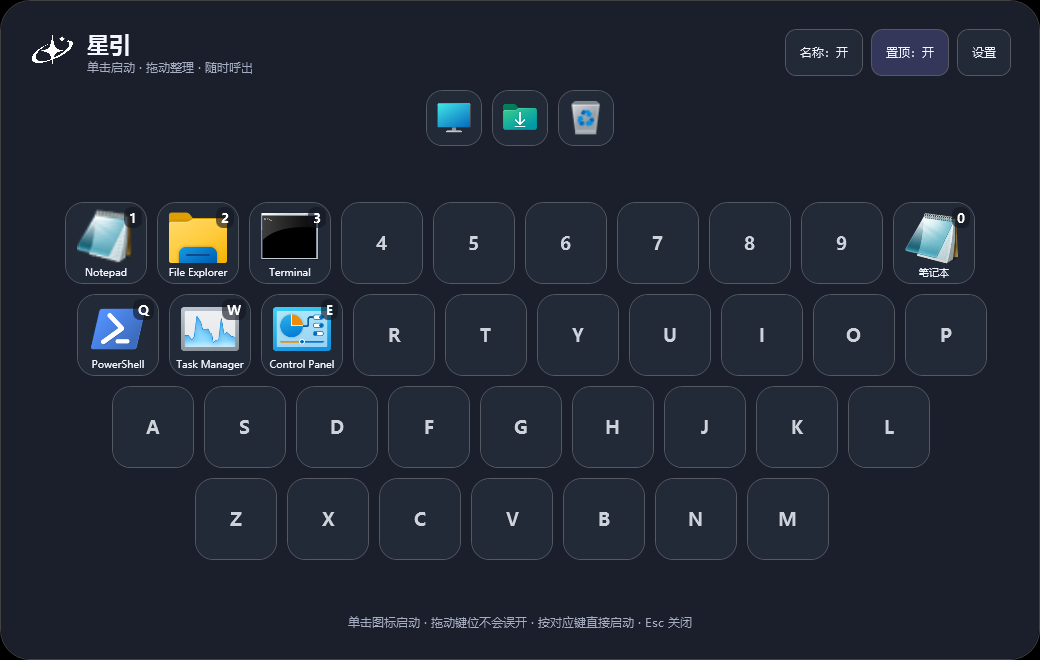
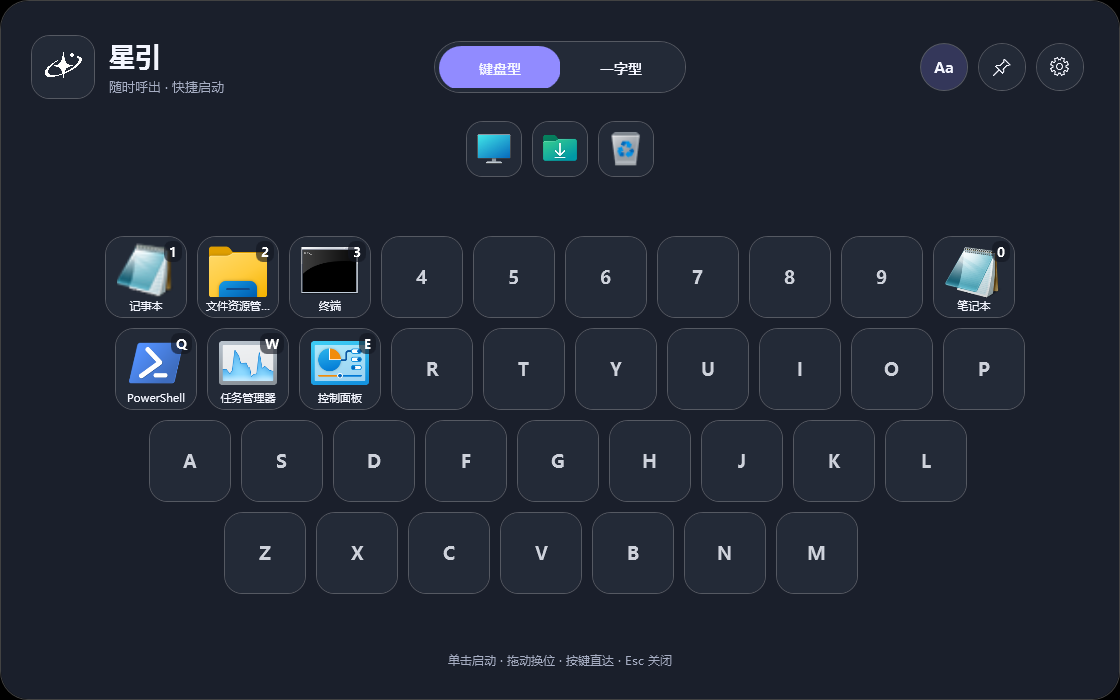
Redesign the main launcher interface

diff --git a/MainWindow.xaml b/MainWindow.xaml
@@ -1,7 +1,7 @@
 <Window x:Class="StarLead.MainWindow"
         xmlns="http://schemas.microsoft.com/winfx/2006/xaml/presentation"
         xmlns:x="http://schemas.microsoft.com/winfx/2006/xaml"
-        Title="{DynamicResource AppName}" Width="1040" Height="660" WindowStyle="None" ResizeMode="NoResize"
+        Title="{DynamicResource AppName}" Width="1120" Height="700" WindowStyle="None" ResizeMode="NoResize"
         AllowsTransparency="True" Background="Transparent" ShowInTaskbar="False" Topmost="True"
         UseLayoutRounding="True" SnapsToDevicePixels="True"
         PreviewKeyDown="Window_PreviewKeyDown" PreviewMouseLeftButtonDown="Window_PreviewMouseLeftButtonDown"
@@ -20,7 +20,7 @@
                                 <Image Source="{Binding Icon}" Stretch="Uniform" HorizontalAlignment="Center" VerticalAlignment="Center" SnapsToDevicePixels="True">
                                     <Image.Style><Style TargetType="Image"><Setter Property="Width" Value="68"/><Setter Property="Height" Value="68"/><Setter Property="Margin" Value="0"/><Style.Triggers><DataTrigger Binding="{Binding ShowLabel}" Value="True"><Setter Property="Margin" Value="0,0,0,12"/><Setter Property="Width" Value="58"/><Setter Property="Height" Value="58"/></DataTrigger></Style.Triggers></Style></Image.Style>
                                 </Image>
-                                <TextBlock Text="{Binding DisplayName}" Foreground="{DynamicResource TextBrush}" FontSize="10" TextTrimming="CharacterEllipsis" TextAlignment="Center" HorizontalAlignment="Stretch" VerticalAlignment="Bottom">
+                                <TextBlock Text="{Binding DisplayName}" Foreground="{DynamicResource TextBrush}" FontSize="11" FontWeight="Medium" TextTrimming="CharacterEllipsis" TextAlignment="Center" HorizontalAlignment="Stretch" VerticalAlignment="Bottom">
                                     <TextBlock.Style><Style TargetType="TextBlock"><Setter Property="Visibility" Value="Visible"/><Style.Triggers><DataTrigger Binding="{Binding ShowLabel}" Value="False"><Setter Property="Visibility" Value="Collapsed"/></DataTrigger></Style.Triggers></Style></TextBlock.Style>
                                 </TextBlock>
                                 <TextBlock x:Name="EmptyKey" Text="{Binding Key}" FontSize="18" FontWeight="Bold" Foreground="{DynamicResource TextBrush}" HorizontalAlignment="Center" VerticalAlignment="Center" Opacity="0.82"/>
@@ -34,9 +34,12 @@
                             <DataTrigger Binding="{Binding IsEmpty}" Value="False"><Setter TargetName="EmptyKey" Property="Visibility" Value="Collapsed"/></DataTrigger>
                             <Trigger Property="IsMouseOver" Value="True">
                                 <Setter TargetName="Shell" Property="Background" Value="{DynamicResource AccentSoftBrush}"/><Setter TargetName="Shell" Property="BorderBrush" Value="{DynamicResource AccentBrush}"/>
-                                <Trigger.EnterActions><BeginStoryboard><Storyboard><DoubleAnimation Storyboard.TargetProperty="RenderTransform.ScaleX" To="1.11" Duration="0:0:0.14"/><DoubleAnimation Storyboard.TargetProperty="RenderTransform.ScaleY" To="1.11" Duration="0:0:0.14"/></Storyboard></BeginStoryboard></Trigger.EnterActions>
-                                <Trigger.ExitActions><BeginStoryboard><Storyboard><DoubleAnimation Storyboard.TargetProperty="RenderTransform.ScaleX" To="1" Duration="0:0:0.18"/><DoubleAnimation Storyboard.TargetProperty="RenderTransform.ScaleY" To="1" Duration="0:0:0.18"/></Storyboard></BeginStoryboard></Trigger.ExitActions>
+                                <Setter TargetName="Shell" Property="Effect"><Setter.Value><DropShadowEffect Color="#8B5CF6" BlurRadius="18" ShadowDepth="0" Opacity="0.46"/></Setter.Value></Setter>
+                                <Trigger.EnterActions><BeginStoryboard><Storyboard><DoubleAnimation Storyboard.TargetProperty="RenderTransform.ScaleX" To="1.05" Duration="0:0:0.16"><DoubleAnimation.EasingFunction><CubicEase EasingMode="EaseOut"/></DoubleAnimation.EasingFunction></DoubleAnimation><DoubleAnimation Storyboard.TargetProperty="RenderTransform.ScaleY" To="1.05" Duration="0:0:0.16"><DoubleAnimation.EasingFunction><CubicEase EasingMode="EaseOut"/></DoubleAnimation.EasingFunction></DoubleAnimation></Storyboard></BeginStoryboard></Trigger.EnterActions>
+                                <Trigger.ExitActions><BeginStoryboard><Storyboard><DoubleAnimation Storyboard.TargetProperty="RenderTransform.ScaleX" To="1" Duration="0:0:0.2"><DoubleAnimation.EasingFunction><CubicEase EasingMode="EaseOut"/></DoubleAnimation.EasingFunction></DoubleAnimation><DoubleAnimation Storyboard.TargetProperty="RenderTransform.ScaleY" To="1" Duration="0:0:0.2"><DoubleAnimation.EasingFunction><CubicEase EasingMode="EaseOut"/></DoubleAnimation.EasingFunction></DoubleAnimation></Storyboard></BeginStoryboard></Trigger.ExitActions>
                             </Trigger>
+                            <Trigger Property="IsKeyboardFocused" Value="True"><Setter TargetName="Shell" Property="BorderBrush" Value="{DynamicResource AccentBrush}"/><Setter TargetName="Shell" Property="BorderThickness" Value="2"/></Trigger>
+                            <Trigger Property="IsPressed" Value="True"><Setter TargetName="Shell" Property="Opacity" Value="0.8"/></Trigger>
                         </ControlTemplate.Triggers>
                     </ControlTemplate>
                 </Setter.Value>
@@ -46,7 +49,7 @@
             <EventSetter Event="DragOver" Handler="Slot_DragOver"/>
             <EventSetter Event="PreviewMouseRightButtonUp" Handler="Slot_RightClick"/>
         </Style>
-        <DataTemplate x:Key="KeyTemplate"><Button Style="{StaticResource KeyButtonStyle}" DataContext="{Binding}"/></DataTemplate>
+        <DataTemplate x:Key="KeyTemplate"><Button Style="{StaticResource KeyButtonStyle}" DataContext="{Binding}" AutomationProperties.Name="{Binding DisplayName}"/></DataTemplate>
         <Style x:Key="FixedEntryButtonStyle" TargetType="Button">
             <Setter Property="Width" Value="56"/><Setter Property="Height" Value="56"/><Setter Property="Margin" Value="5,0"/>
             <Setter Property="Background" Value="{DynamicResource CardBrush}"/><Setter Property="BorderBrush" Value="{DynamicResource BorderBrush}"/>
@@ -59,12 +62,21 @@
                 </ControlTemplate.Triggers>
             </ControlTemplate></Setter.Value></Setter>
         </Style>
+        <Style x:Key="HeaderIconButtonStyle" TargetType="Button">
+            <Setter Property="Width" Value="48"/><Setter Property="Height" Value="48"/><Setter Property="Padding" Value="0"/><Setter Property="Margin" Value="5,0"/>
+            <Setter Property="Background" Value="{DynamicResource CardBrush}"/><Setter Property="BorderBrush" Value="{DynamicResource BorderBrush}"/><Setter Property="BorderThickness" Value="1"/>
+            <Setter Property="Template"><Setter.Value><ControlTemplate TargetType="Button"><Border x:Name="Circle" CornerRadius="24" Background="{TemplateBinding Background}" BorderBrush="{TemplateBinding BorderBrush}" BorderThickness="{TemplateBinding BorderThickness}"><ContentPresenter HorizontalAlignment="Center" VerticalAlignment="Center"/></Border><ControlTemplate.Triggers><Trigger Property="IsMouseOver" Value="True"><Setter TargetName="Circle" Property="Background" Value="{DynamicResource AccentSoftBrush}"/><Setter TargetName="Circle" Property="BorderBrush" Value="{DynamicResource AccentBrush}"/></Trigger><Trigger Property="IsPressed" Value="True"><Setter TargetName="Circle" Property="Opacity" Value="0.7"/></Trigger><Trigger Property="IsKeyboardFocused" Value="True"><Setter TargetName="Circle" Property="BorderBrush" Value="{DynamicResource AccentBrush}"/><Setter TargetName="Circle" Property="BorderThickness" Value="2"/></Trigger></ControlTemplate.Triggers></ControlTemplate></Setter.Value></Setter>
+        </Style>
+        <Style x:Key="ModePillButtonStyle" TargetType="Button">
+            <Setter Property="Width" Value="122"/><Setter Property="Height" Value="44"/><Setter Property="Padding" Value="0"/><Setter Property="BorderThickness" Value="0"/><Setter Property="Background" Value="Transparent"/><Setter Property="Foreground" Value="{DynamicResource TextBrush}"/><Setter Property="FontSize" Value="14"/><Setter Property="FontWeight" Value="SemiBold"/>
+            <Setter Property="Template"><Setter.Value><ControlTemplate TargetType="Button"><Border x:Name="ModeShell" CornerRadius="22" Background="{TemplateBinding Background}"><ContentPresenter HorizontalAlignment="Center" VerticalAlignment="Center"/></Border><ControlTemplate.Triggers><Trigger Property="IsMouseOver" Value="True"><Setter TargetName="ModeShell" Property="Background" Value="{DynamicResource AccentSoftBrush}"/></Trigger><Trigger Property="IsPressed" Value="True"><Setter TargetName="ModeShell" Property="Opacity" Value="0.72"/></Trigger></ControlTemplate.Triggers></ControlTemplate></Setter.Value></Setter>
+        </Style>
         <Style x:Key="LinearIconStyle" TargetType="Button">
             <Setter Property="Width" Value="80"/><Setter Property="Height" Value="80"/><Setter Property="Margin" Value="{Binding LinearMargin}"/>
             <Setter Property="Background" Value="Transparent"/><Setter Property="BorderThickness" Value="0"/><Setter Property="Padding" Value="7"/>
             <Setter Property="RenderTransformOrigin" Value="0.5,0.5"/><Setter Property="RenderTransform"><Setter.Value><ScaleTransform/></Setter.Value></Setter>
             <Setter Property="Template"><Setter.Value><ControlTemplate TargetType="Button">
-                <Grid x:Name="HoverHost" RenderTransformOrigin="0.5,0.5"><Grid.RenderTransform><ScaleTransform x:Name="HoverScale" ScaleX="1" ScaleY="1"/></Grid.RenderTransform><Ellipse x:Name="Glow" Fill="{DynamicResource AccentSoftBrush}" Opacity="0"/><Image Source="{Binding Icon}" Stretch="Uniform" Margin="5,2,5,18" SnapsToDevicePixels="True"/><Border Background="#B0111520" CornerRadius="8" Padding="5,1" HorizontalAlignment="Right" VerticalAlignment="Top" Margin="0,0,1,0"><TextBlock Text="{Binding Key}" Foreground="White" FontSize="11" FontWeight="Bold"/></Border><TextBlock x:Name="LinearName" Text="{Binding DisplayName}" Foreground="{DynamicResource TextBrush}" FontSize="10" FontWeight="SemiBold" TextTrimming="CharacterEllipsis" TextAlignment="Center" HorizontalAlignment="Stretch" VerticalAlignment="Bottom" MaxWidth="72"/></Grid>
+                <Grid x:Name="HoverHost" RenderTransformOrigin="0.5,0.5"><Grid.RenderTransform><ScaleTransform x:Name="HoverScale" ScaleX="1" ScaleY="1"/></Grid.RenderTransform><Ellipse x:Name="Glow" Fill="{DynamicResource AccentSoftBrush}" Opacity="0"/><Image Source="{Binding Icon}" Stretch="Uniform" Margin="5,2,5,18" SnapsToDevicePixels="True"/><Border Background="#B0111520" CornerRadius="8" Padding="5,1" HorizontalAlignment="Right" VerticalAlignment="Top" Margin="0,0,1,0"><TextBlock Text="{Binding Key}" Foreground="White" FontSize="11" FontWeight="Bold"/></Border><TextBlock x:Name="LinearName" Text="{Binding DisplayName}" Foreground="{DynamicResource TextBrush}" FontSize="11" FontWeight="SemiBold" TextTrimming="CharacterEllipsis" TextAlignment="Center" HorizontalAlignment="Stretch" VerticalAlignment="Bottom" MaxWidth="72"/></Grid>
                 <ControlTemplate.Triggers><Trigger Property="IsMouseOver" Value="True">
                     <Setter TargetName="Glow" Property="Opacity" Value="1"/>
                     <Trigger.EnterActions><BeginStoryboard><Storyboard><DoubleAnimation Storyboard.TargetName="HoverScale" Storyboard.TargetProperty="ScaleX" To="1.16" Duration="0:0:0.14"><DoubleAnimation.EasingFunction><CubicEase EasingMode="EaseOut"/></DoubleAnimation.EasingFunction></DoubleAnimation><DoubleAnimation Storyboard.TargetName="HoverScale" Storyboard.TargetProperty="ScaleY" To="1.16" Duration="0:0:0.14"><DoubleAnimation.EasingFunction><CubicEase EasingMode="EaseOut"/></DoubleAnimation.EasingFunction></DoubleAnimation></Storyboard></BeginStoryboard></Trigger.EnterActions>
@@ -85,23 +97,32 @@
     </Window.Resources>
 
     <Grid>
-    <Border x:Name="PanelShell" Background="{DynamicResource PanelBrush}" CornerRadius="30" BorderBrush="{DynamicResource BorderBrush}" BorderThickness="1" Padding="28">
-        <Border.Effect><DropShadowEffect BlurRadius="35" ShadowDepth="10" Opacity="0.22"/></Border.Effect>
+    <Border x:Name="PanelShell" Background="{DynamicResource PanelBrush}" CornerRadius="28" BorderBrush="{DynamicResource BorderBrush}" BorderThickness="1" Padding="30">
+        <Border.Effect><DropShadowEffect BlurRadius="28" ShadowDepth="6" Opacity="0.26"/></Border.Effect>
         <Grid>
             <Grid.RowDefinitions><RowDefinition Height="Auto"/><RowDefinition Height="Auto"/><RowDefinition Height="*"/><RowDefinition Height="Auto"/></Grid.RowDefinitions>
-            <Grid Background="Transparent">
-                <StackPanel Orientation="Horizontal">
-                    <Image Source="{DynamicResource LogoAsset}" Width="46" Height="46" Stretch="Uniform" SnapsToDevicePixels="True"/>
-                    <StackPanel Margin="12,0,0,0"><TextBlock Text="{DynamicResource AppName}" FontSize="22" FontWeight="Bold"/><TextBlock Text="{DynamicResource MainSubtitle}" Foreground="{DynamicResource MutedBrush}" FontSize="12"/></StackPanel>
+            <Grid Background="Transparent" Height="72">
+                <Grid.ColumnDefinitions><ColumnDefinition Width="*"/><ColumnDefinition Width="Auto"/><ColumnDefinition Width="*"/></Grid.ColumnDefinitions>
+                <StackPanel Orientation="Horizontal" VerticalAlignment="Center">
+                    <Border Width="64" Height="64" CornerRadius="18" Background="{DynamicResource CardBrush}" BorderBrush="{DynamicResource BorderBrush}" BorderThickness="1" Padding="10">
+                        <Image Source="{DynamicResource LogoAsset}" Stretch="Uniform" SnapsToDevicePixels="True"/>
+                    </Border>
+                    <StackPanel Margin="14,0,0,0" VerticalAlignment="Center"><TextBlock Text="{DynamicResource AppName}" FontSize="26" FontWeight="Bold"/><TextBlock Text="{DynamicResource MainSubtitle}" Foreground="{DynamicResource MutedBrush}" FontSize="13" Margin="0,4,0,0"/></StackPanel>
                 </StackPanel>
-                <StackPanel Orientation="Horizontal" HorizontalAlignment="Right">
-                    <Button x:Name="NameToggleButton" Click="NameToggle_Click" Padding="14,8" Margin="0,0,8,0" Background="{DynamicResource CardBrush}" Foreground="{DynamicResource TextBrush}" BorderBrush="{DynamicResource BorderBrush}" Cursor="Hand"/>
-                    <Button x:Name="PinButton" Click="Pin_Click" Padding="14,8" Margin="0,0,8,0" Background="{DynamicResource CardBrush}" Foreground="{DynamicResource TextBrush}" BorderBrush="{DynamicResource BorderBrush}" Cursor="Hand"/>
-                    <Button Content="{DynamicResource Settings}" Click="Settings_Click" Padding="14,8" Background="{DynamicResource CardBrush}" Foreground="{DynamicResource TextBrush}" BorderBrush="{DynamicResource BorderBrush}" Cursor="Hand"/>
+                <Border Grid.Column="1" Width="252" Height="52" CornerRadius="26" Background="{DynamicResource CardBrush}" BorderBrush="{DynamicResource BorderBrush}" BorderThickness="1" Padding="4" VerticalAlignment="Center">
+                    <Grid><Grid.ColumnDefinitions><ColumnDefinition/><ColumnDefinition/></Grid.ColumnDefinitions>
+                        <Button x:Name="KeyboardModeButton" Grid.Column="0" Style="{StaticResource ModePillButtonStyle}" Content="{DynamicResource KeyboardPanel}" Click="KeyboardMode_Click" Background="{DynamicResource AccentBrush}" Foreground="White"/>
+                        <Button x:Name="LinearModeButton" Grid.Column="1" Style="{StaticResource ModePillButtonStyle}" Content="{DynamicResource LinearPanel}" Click="LinearMode_Click"/>
+                    </Grid>
+                </Border>
+                <StackPanel Grid.Column="2" Orientation="Horizontal" HorizontalAlignment="Right" VerticalAlignment="Center">
+                    <Button x:Name="NameToggleButton" Style="{StaticResource HeaderIconButtonStyle}" Click="NameToggle_Click"><TextBlock Text="Aa" FontSize="15" FontWeight="Bold"/></Button>
+                    <Button x:Name="PinButton" Style="{StaticResource HeaderIconButtonStyle}" Click="Pin_Click"><TextBlock FontFamily="Segoe MDL2 Assets" Text="&#xE840;" FontSize="18"/></Button>
+                    <Button Style="{StaticResource HeaderIconButtonStyle}" Click="Settings_Click" ToolTip="{DynamicResource Settings}"><TextBlock FontFamily="Segoe MDL2 Assets" Text="&#xE713;" FontSize="19"/></Button>
                 </StackPanel>
             </Grid>
 
-            <StackPanel x:Name="SystemEntriesPanel" Grid.Row="1" Orientation="Horizontal" HorizontalAlignment="Center" Margin="0,14,0,2">
+            <StackPanel x:Name="SystemEntriesPanel" Grid.Row="1" Orientation="Horizontal" HorizontalAlignment="Center" Margin="0,18,0,8">
                 <Button x:Name="MyComputerButton" Style="{StaticResource FixedEntryButtonStyle}" Click="MyComputer_Click"><Image x:Name="MyComputerIcon" Width="38" Height="38" Stretch="Uniform" SnapsToDevicePixels="True"/></Button>
                 <Button x:Name="DownloadsButton" Style="{StaticResource FixedEntryButtonStyle}" Click="Downloads_Click"><Image x:Name="DownloadsIcon" Width="38" Height="38" Stretch="Uniform" SnapsToDevicePixels="True"/></Button>
                 <Button x:Name="RecycleBinButton" Style="{StaticResource FixedEntryButtonStyle}" Click="RecycleBin_Click" PreviewMouseRightButtonUp="RecycleBin_RightClick"><Image x:Name="RecycleBinIcon" Width="38" Height="38" Stretch="Uniform" SnapsToDevicePixels="True"/></Button>
@@ -110,12 +131,12 @@
             <Grid Grid.Row="2" VerticalAlignment="Center">
                 <StackPanel>
                     <ItemsControl x:Name="Row1" ItemTemplate="{StaticResource KeyTemplate}"><ItemsControl.ItemsPanel><ItemsPanelTemplate><StackPanel Orientation="Horizontal" HorizontalAlignment="Center"/></ItemsPanelTemplate></ItemsControl.ItemsPanel></ItemsControl>
-                    <ItemsControl x:Name="Row2" ItemTemplate="{StaticResource KeyTemplate}" Margin="24,0,0,0"><ItemsControl.ItemsPanel><ItemsPanelTemplate><StackPanel Orientation="Horizontal" HorizontalAlignment="Center"/></ItemsPanelTemplate></ItemsControl.ItemsPanel></ItemsControl>
-                    <ItemsControl x:Name="Row3" ItemTemplate="{StaticResource KeyTemplate}" Margin="2,0,0,0"><ItemsControl.ItemsPanel><ItemsPanelTemplate><StackPanel Orientation="Horizontal" HorizontalAlignment="Center"/></ItemsPanelTemplate></ItemsControl.ItemsPanel></ItemsControl>
-                    <ItemsControl x:Name="Row4" ItemTemplate="{StaticResource KeyTemplate}" Margin="-15,0,0,0"><ItemsControl.ItemsPanel><ItemsPanelTemplate><StackPanel Orientation="Horizontal" HorizontalAlignment="Center"/></ItemsPanelTemplate></ItemsControl.ItemsPanel></ItemsControl>
+                    <ItemsControl x:Name="Row2" ItemTemplate="{StaticResource KeyTemplate}" Margin="20,0,0,0"><ItemsControl.ItemsPanel><ItemsPanelTemplate><StackPanel Orientation="Horizontal" HorizontalAlignment="Center"/></ItemsPanelTemplate></ItemsControl.ItemsPanel></ItemsControl>
+                    <ItemsControl x:Name="Row3" ItemTemplate="{StaticResource KeyTemplate}" Margin="-4,0,0,0"><ItemsControl.ItemsPanel><ItemsPanelTemplate><StackPanel Orientation="Horizontal" HorizontalAlignment="Center"/></ItemsPanelTemplate></ItemsControl.ItemsPanel></ItemsControl>
+                    <ItemsControl x:Name="Row4" ItemTemplate="{StaticResource KeyTemplate}" Margin="-38,0,0,0"><ItemsControl.ItemsPanel><ItemsPanelTemplate><StackPanel Orientation="Horizontal" HorizontalAlignment="Center"/></ItemsPanelTemplate></ItemsControl.ItemsPanel></ItemsControl>
                 </StackPanel>
             </Grid>
-            <TextBlock Grid.Row="3" Text="{DynamicResource MainHint}" HorizontalAlignment="Center" Foreground="{DynamicResource MutedBrush}" FontSize="12"/>
+            <TextBlock Grid.Row="3" Text="{DynamicResource MainHint}" HorizontalAlignment="Center" Foreground="{DynamicResource MutedBrush}" FontSize="12" Margin="0,6,0,0"/>
         </Grid>
     </Border>
     <Border x:Name="LinearShell" Visibility="Collapsed" Background="{DynamicResource PanelBrush}" CornerRadius="24" BorderThickness="0" Padding="10"

diff --git a/App.xaml b/App.xaml
@@ -28,6 +28,7 @@
             <Style.Triggers><Trigger Property="IsHighlighted" Value="True"><Setter Property="Background" Value="#FFE4E2FF"/><Setter Property="Foreground" Value="#FF171A24"/></Trigger></Style.Triggers>
         </Style>
         <Style TargetType="ContextMenu"><Setter Property="FontFamily" Value="{StaticResource AppFontFamily}"/><Setter Property="FontSize" Value="13"/><Setter Property="Background" Value="#FFFFFFFF"/><Setter Property="BorderBrush" Value="#FF8B91A2"/><Setter Property="Foreground" Value="#FF111827"/></Style>
+        <Style TargetType="ToolTip"><Setter Property="FontFamily" Value="{StaticResource AppFontFamily}"/><Setter Property="FontSize" Value="12"/><Setter Property="Foreground" Value="#FF111827"/><Setter Property="Background" Value="#FFFFFFFF"/><Setter Property="BorderBrush" Value="#FF8B91A2"/><Setter Property="Padding" Value="9,6"/></Style>
         <Style TargetType="MenuItem">
             <Setter Property="FontFamily" Value="{StaticResource AppFontFamily}"/><Setter Property="FontSize" Value="13"/><Setter Property="Foreground" Value="#FF111827"/><Setter Property="Background" Value="#FFFFFFFF"/><Setter Property="Padding" Value="12,8"/>
             <Style.Triggers><Trigger Property="IsHighlighted" Value="True"><Setter Property="Background" Value="#FFE4E2FF"/><Setter Property="Foreground" Value="#FF171A24"/></Trigger></Style.Triggers>

diff --git a/MainWindow.xaml.cs b/MainWindow.xaml.cs
@@ -83,7 +83,7 @@ public partial class MainWindow : Window
         PanelShell.Visibility = linear ? Visibility.Collapsed : Visibility.Visible;
         LinearShell.Visibility = linear ? Visibility.Visible : Visibility.Collapsed;
         if (linear) { Height = 104; Width = CalculateLinearWidth(); RefreshLinearItems(); }
-        else { Width = 1040; Height = 660; }
+        else { Width = 1120; Height = 700; }
         ApplySystemVisibility(); ApplyBackgroundOpacity(); PlacePanel();
     }
     public void ApplyBackgroundOpacity()
@@ -103,7 +103,10 @@ public partial class MainWindow : Window
         {
             PanelShell.BorderThickness = new Thickness(1);
             PanelShell.SetResourceReference(Border.BorderBrushProperty, "BorderBrush");
-            PanelShell.Effect = new DropShadowEffect { BlurRadius = 35, ShadowDepth = 10, Opacity = 0.22 };
+            PanelShell.Effect = new DropShadowEffect { BlurRadius = 28, ShadowDepth = 6, Opacity = 0.26 };
+            LinearShell.BorderThickness = new Thickness(1);
+            LinearShell.SetResourceReference(Border.BorderBrushProperty, "BorderBrush");
+            LinearShell.Effect = new DropShadowEffect { BlurRadius = 22, ShadowDepth = 4, Opacity = 0.22 };
         }
     }
     public void ApplySystemVisibility()
@@ -127,8 +130,9 @@ public partial class MainWindow : Window
     }
     private void UpdateQuickControls()
     {
-        NameToggleButton.Content = LocalizationService.Get(App.Data.Settings.ShowIconNames ? "NameOn" : "NameOff");
-        PinButton.Content = LocalizationService.Get(App.Data.Settings.AlwaysOnTop ? "PinOn" : "PinOff");
+        NameToggleButton.ToolTip = LocalizationService.Get(App.Data.Settings.ShowIconNames ? "NameOn" : "NameOff");
+        NameToggleButton.Background = App.Data.Settings.ShowIconNames ? (System.Windows.Media.Brush)FindResource("AccentSoftBrush") : (System.Windows.Media.Brush)FindResource("CardBrush");
+        PinButton.ToolTip = LocalizationService.Get(App.Data.Settings.AlwaysOnTop ? "PinOn" : "PinOff");
         PinButton.Background = App.Data.Settings.AlwaysOnTop ? (System.Windows.Media.Brush)FindResource("AccentSoftBrush") : (System.Windows.Media.Brush)FindResource("CardBrush");
     }
 
@@ -319,6 +323,9 @@ public partial class MainWindow : Window
     {
         if (FindButtonAncestor(e.OriginalSource as DependencyObject)?.DataContext is ActionSlot) return;
         e.Handled = true; var menu = new ContextMenu();
+        menu.Items.Add(MenuItem(LocalizationService.Get("KeyboardPanel"), () => SetPanelMode("Keyboard")));
+        menu.Items.Add(MenuItem(LocalizationService.Get("Settings"), () => Settings_Click(this, new RoutedEventArgs())));
+        menu.Items.Add(new Separator());
         menu.Items.Add(MenuItem((App.Data.Settings.LinearWidthMode == "Auto" ? "✓ " : "") + LocalizationService.Get("WidthAuto"), () => { App.Data.Settings.LinearWidthMode = "Auto"; ApplyLinearWidth(); App.Data.SaveAll(); }));
         menu.Items.Add(MenuItem((App.Data.Settings.LinearWidthMode == "Custom" ? "✓ " : "") + LocalizationService.Get("WidthCustom"), () => { App.Data.Settings.LinearWidthMode = "Custom"; App.Data.Settings.LinearPanelWidth = Width; ApplyLinearWidth(); App.Data.SaveAll(); }));
         menu.Items.Add(new Separator());
@@ -380,6 +387,16 @@ public partial class MainWindow : Window
         e.Handled = true; LaunchSlot(slot);
     }
     private void Settings_Click(object sender, RoutedEventArgs e) { new SettingsWindow { Owner = this }.ShowDialog(); RefreshRows(); UpdateQuickControls(); ApplyPanelMode(); RegisterHotKey(); Activate(); }
+    private void KeyboardMode_Click(object sender, RoutedEventArgs e) => SetPanelMode("Keyboard");
+    private void LinearMode_Click(object sender, RoutedEventArgs e) => SetPanelMode("Linear");
+    private void SetPanelMode(string mode)
+    {
+        if (App.Data.Settings.PanelMode == mode) return;
+        App.Data.Settings.PanelMode = mode;
+        ApplyPanelMode();
+        App.Data.SaveAll();
+        Activate();
+    }
     public void ApplyLanguage() { RefreshRows(); RefreshLinearItems(); UpdateQuickControls(); }
     private void NameToggle_Click(object sender, RoutedEventArgs e)
     {

diff --git a/LocalizationService.cs b/LocalizationService.cs
@@ -7,11 +7,11 @@ public static class LocalizationService
     private static readonly Dictionary<string, (string Zh, string En)> Strings = new()
     {
         ["AppName"] = ("星引", "StarLead"),
-        ["MainSubtitle"] = ("单击启动 · 拖动整理 · 随时呼出", "Click to launch · Drag to arrange · Open anytime"),
+        ["MainSubtitle"] = ("随时呼出 · 快捷启动", "Open anytime · Launch instantly"),
         ["Settings"] = ("设置", "Settings"),
         ["NameOn"] = ("名称：开", "Names: On"), ["NameOff"] = ("名称：关", "Names: Off"),
         ["PinOn"] = ("置顶：开", "Pin: On"), ["PinOff"] = ("置顶：关", "Pin: Off"),
-        ["MainHint"] = ("单击图标启动 · 拖动键位不会误开 · 按对应键直接启动 · Esc 关闭", "Click an icon to launch · Drag to arrange · Press its key to launch · Esc closes"),
+        ["MainHint"] = ("单击启动 · 拖动换位 · 按键直达 · Esc 关闭", "Click to launch · Drag to swap · Press a key · Esc closes"),
         ["Open"] = ("打开", "Open"), ["Delete"] = ("删除", "Delete"),
         ["BindProgram"] = ("绑定程序", "Bind app"), ["BindFile"] = ("绑定文件", "Bind file"), ["BindFolder"] = ("绑定文件夹", "Bind folder"), ["BindNotebook"] = ("绑定笔记本", "Bind notebook"),
         ["RebindProgram"] = ("重新绑定为程序", "Rebind as app"), ["RebindFile"] = ("重新绑定为文件", "Rebind as file"), ["RebindFolder"] = ("重新绑定为文件夹", "Rebind as folder"), ["RebindNotebook"] = ("重新绑定为笔记本", "Rebind as notebook"), ["DeleteBinding"] = ("删除绑定", "Remove binding"),

diff --git a/docs/RELEASE_NOTES_v0.33.md b/docs/RELEASE_NOTES_v0.33.md
@@ -1,0 +1,21 @@
+# StarLead / 星引 v0.33
+
+## 中文
+
+- 键盘型主面板升级为新的暗色玻璃布局，重新整理了标题、系统入口、键盘区和底部提示的视觉层级。
+- 新增面板顶部“键盘型 / 一字型”分段切换器，点击后立即切换并保存。
+- 名称、置顶和设置改为紧凑圆形控制；名称与置顶的启用状态会直接高亮显示。
+- 键帽悬停缩放调整为更克制的 1.05 倍，并增加紫色焦点边框和柔和光晕，避免布局跳动。
+- 键位名称字号和字重提高，工具提示固定使用白底深色文字，继续避免暗色主题下的字体可读性问题。
+- 一字型空白区域的右键菜单新增“切换到键盘型”和“设置”，两种面板之间切换更方便。
+- 中英文说明书中的暗色主题截图已更新为新版真实界面。
+
+## English
+
+- Redesigned the keyboard panel with a refined dark-glass layout and clearer hierarchy for the header, system entries, keys, and footer hint.
+- Added an in-panel **Keyboard / Linear** segmented switch that applies and saves immediately.
+- Replaced text-heavy quick controls with compact circular buttons; active Names and Pin states are highlighted directly.
+- Reduced key hover scaling to a restrained 1.05x and added a violet focus border and soft halo without layout shift.
+- Increased action-label readability and fixed tooltips to dark text on white in every theme.
+- Added **Switch to Keyboard** and **Settings** to the linear panel's blank-area context menu.
+- Updated both user manuals with real screenshots of the redesigned dark keyboard and linear panels.

diff --git a/README.en.md b/README.en.md
@@ -20,6 +20,7 @@ This is source-available software, not OSI-defined open-source software.
 - Reorder keyboard bindings and linear icons by dragging.
 - Switch instantly between light/dark themes and Chinese/English.
 - Choose Liquid Glass, Ocean Blue, Aurora, or Graphite; every style supports light and dark mode.
+- The keyboard panel now uses a refined glass layout with an in-panel mode switch and compact circular controls for names, pinning, and settings.
 - Adjust panel opacity from `0–100%`; icons remain opaque, and at `0%` the outer border and shadow disappear.
 - Optional Windows shell shortcuts for This PC, Downloads, and Recycle Bin.
 - Built-in local text notebook with free/grid-snapped or automatic card layout.

diff --git a/README.md b/README.md
@@ -15,6 +15,7 @@
 - 支持中文 / English 即时切换。
 - 提供液态玻璃、海湾蓝、极光、石墨四套界面风格，每套均支持浅色和深色模式。
 - 支持键盘型与一字型两种完全独立的动作面板。
+- 键盘型采用全新的暗色玻璃布局，可在顶部直接切换面板样式，并提供圆形名称、置顶和设置控制。
 - 数据只保存在本机，不上传用户绑定和笔记。
 
 ## 使用

diff --git a/docs/USER_GUIDE.en-US.md b/docs/USER_GUIDE.en-US.md
@@ -16,7 +16,7 @@ The keyboard panel maps actions to number and letter keys. Launch by click or ke
 
 The linear panel follows the order in which actions were added. Browse with the mouse wheel, launch by click or number key, and drag to reorder.
 
-> For StarLead v0.32 on Windows 11 x64.
+> For StarLead v0.33 on Windows 11 x64.
 
 [中文手册](USER_GUIDE.zh-CN.md) · [Project home](../README.md)
 

diff --git a/docs/USER_GUIDE.zh-CN.md b/docs/USER_GUIDE.zh-CN.md
@@ -16,7 +16,7 @@
 
 一字型面板按添加顺序横向排列，可用滚轮浏览、鼠标单击或数字键启动，并支持拖拽排序。
 
-> 适用于 StarLead（星引）v0.32，Windows 11 x64。
+> 适用于 StarLead（星引）v0.33，Windows 11 x64。
 
 [English manual](USER_GUIDE.en-US.md) · [返回项目首页](../README.md)
 
